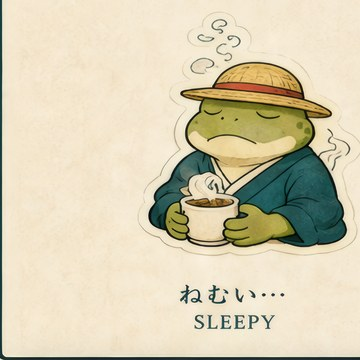
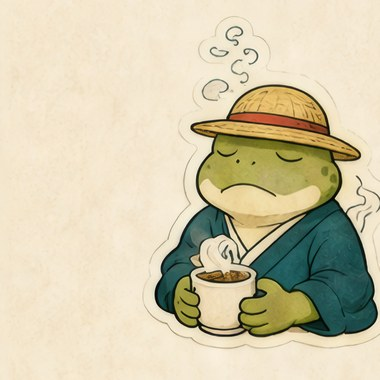
fix: improve image crops and display for story/sticker/merch sections
- Stickers: re-crop 1390×1390 square (removed bottom 22% text labels),
  object-position: center 20% for better hat visibility in circle
- Merch: per-product horizontal padding (tote 10%, pin 4%, figure 8.5%),
  crop bottom y=2603 to exclude Japanese text labels, height 320px container
- Story: remove max-height/object-fit → show full OS.jpg illustration
- Merch: object-fit cover + object-position top center for clean fill

diff --git a/web/kaeru.html b/web/kaeru.html
@@ -314,16 +314,16 @@
     .turn-card:hover { transform: translateY(-3px); box-shadow: 3px 3px 0 rgba(168,155,128,.3); }
     .turn-lbl { font-family: var(--font-en); font-size: .6rem; letter-spacing: .18em; color: var(--earth-dk); }
 
-    /* Story photo (thay turn-grid SVG) */
+    /* Story photo — hiển thị toàn bộ, không clip */
     .story-visual { width: 100%; border-radius: 8px; overflow: hidden; display: block; }
-    .story-visual img { width: 100%; display: block; border-radius: 8px; max-height: 540px; object-fit: cover; object-position: top; }
+    .story-visual img { width: 100%; height: auto; display: block; border-radius: 8px; }
 
-    /* Sticker photos */
+    /* Sticker photos — hình vuông crop sẵn, hiển thị trong vòng tròn */
     .stk-badge.stk-photo { padding: 0; overflow: hidden; }
-    .stk-img { width: 100%; height: 100%; object-fit: cover; object-position: center 30%; display: block; }
+    .stk-img { width: 100%; height: 100%; object-fit: cover; object-position: center 20%; display: block; }
 
-    /* Merch photos */
-    .merch-photo { width: 100%; height: 100%; object-fit: contain; display: block; }
+    /* Merch photos — object-fit cover, container 320px */
+    .merch-photo { width: 100%; height: 100%; object-fit: cover; object-position: top center; display: block; }
 
     /* ============================= */
     /* MENU SECTION                  */
@@ -398,7 +398,7 @@
     .merch-grid { display: grid; grid-template-columns: repeat(3,1fr); gap: 22px; }
     .merch-card { text-align: center; }
     .merch-img {
-      height: 240px; background: var(--cream-dk); border-radius: 4px;
+      height: 320px; background: var(--cream-dk); border-radius: 4px;
       display: flex; align-items: center; justify-content: center;
       border: 1px solid rgba(168,155,128,.2); margin-bottom: 14px;
       transition: transform .3s, box-shadow .3s;
